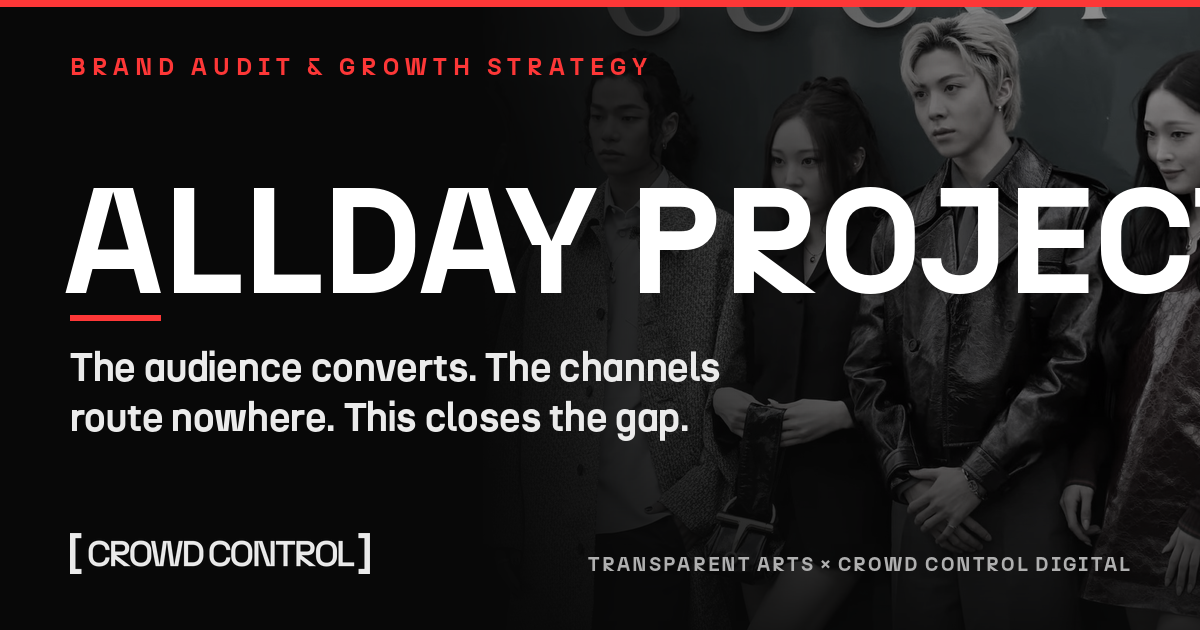
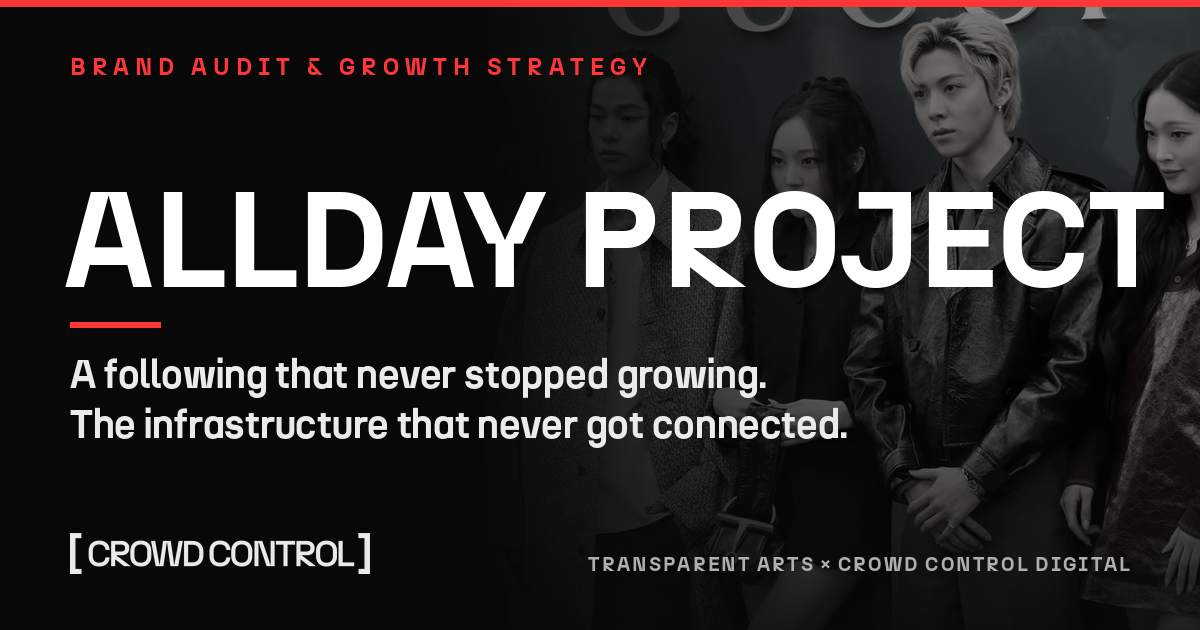
ALLDAY PROJECT: regenerate OG card with an auto-fitting title
The OG generator hard-coded a 150px title with no width check, so any
artist name wider than the canvas was clipped mid-word. 'ALLDAY PROJECT'
lost its final T. Adds an auto-fit loop (150px down to 48px) and drops a
patched copy of the generator into scripts/ so the repo has the fix.
Also updates the card subtitle to match the corrected page thesis.

Changed region(s): [[0.0617, 0.2714, 1.0, 0.7238]]

diff --git a/scripts/generate_og_image.py b/scripts/generate_og_image.py
@@ -1,0 +1,146 @@
+#!/usr/bin/env python3
+"""
+Generate a high-impact 1200x630 OpenGraph share image for a Kakao Proposal.
+
+Layout: bold N27 artist title on the left over a left-to-right black scrim, the
+hero/group photo desaturated + darkened on the right, the CCD wordmark bottom-
+left, a partnership line bottom-right, an accent top stripe + rule.
+
+Run from inside the ccd-proposals repo (so public/brand/ and public/images/ are
+relative), or pass absolute paths.
+
+Example:
+  python3 generate_og_image.py \
+    --slug 82major --title "82MAJOR" --eyebrow "U.S. GROWTH STRATEGY" \
+    --sub1 "Long-term U.S. expansion" --sub2 "framework through 1H 2027" \
+    --partner "KAKAO ENTERTAINMENT  ×  CROWD CONTROL DIGITAL" \
+    --hero public/images/82major/82major-group.jpg
+
+Writes public/images/<slug>/og-image.png. Requires Pillow
+(pip install pillow --break-system-packages).
+"""
+import argparse
+import os
+from PIL import Image, ImageDraw, ImageFont, ImageEnhance
+
+
+def hex_to_rgb(h):
+    h = h.lstrip("#")
+    return tuple(int(h[i:i + 2], 16) for i in (0, 2, 4))
+
+
+def draw_tracked(draw, xy, text, font, fill, tracking):
+    x, y = xy
+    for ch in text:
+        draw.text((x, y), ch, font=font, fill=fill)
+        x += draw.textlength(ch, font=font) + tracking
+
+
+def tracked_width(draw, text, font, tracking):
+    return sum(draw.textlength(ch, font=font) + tracking for ch in text) - tracking
+
+
+def main():
+    ap = argparse.ArgumentParser()
+    ap.add_argument("--slug", required=True)
+    ap.add_argument("--title", required=True, help="Artist, rendered massive")
+    ap.add_argument("--eyebrow", default="U.S. GROWTH STRATEGY")
+    ap.add_argument("--sub1", default="Long-term U.S. expansion")
+    ap.add_argument("--sub2", default="framework through 1H 2027")
+    ap.add_argument("--partner", default="CROWD CONTROL DIGITAL")
+    ap.add_argument("--hero", required=True, help="Path to hero/group photo")
+    ap.add_argument("--accent", default="#FD3737")
+    ap.add_argument("--brand-dir", default="public/brand")
+    ap.add_argument("--out", default=None, help="Defaults to public/images/<slug>/og-image.png")
+    args = ap.parse_args()
+
+    W, H = 1200, 630
+    ACCENT = hex_to_rgb(args.accent)
+    BG = (8, 8, 8)
+    MARGIN = 70
+
+    font_path = os.path.join(args.brand_dir, "N27-Bold.otf")
+    logo_path = os.path.join(args.brand_dir, "CC-LOGO-2024-WHITE.png")
+
+    canvas = Image.new("RGB", (W, H), BG)
+
+    # Hero photo: right-anchored, cover-cropped, desaturated + darkened
+    grp = Image.open(args.hero).convert("RGB")
+    target_w, target_h = int(W * 0.62), H
+    scale = max(target_w / grp.width, target_h / grp.height)
+    grp = grp.resize((int(grp.width * scale), int(grp.height * scale)), Image.LANCZOS)
+    left = (grp.width - target_w) // 2
+    top = (grp.height - target_h) // 2
+    grp = grp.crop((left, top, left + target_w, top + target_h))
+    grp = ImageEnhance.Color(grp).enhance(0.12)
+    grp = ImageEnhance.Brightness(grp).enhance(0.55)
+    canvas.paste(grp, (W - target_w, 0))
+
+    # Left-to-right scrim so the title area stays solid black
+    grad = Image.new("L", (W, 1), 0)
+    for x in range(W):
+        t = max(0.0, min(1.0, (x - W * 0.40) / (W * 0.45)))
+        grad.putpixel((x, 0), int(255 * (1 - t)))
+    grad = grad.resize((W, H))
+    canvas = Image.composite(Image.new("RGB", (W, H), BG), canvas, grad)
+
+    # Bottom vignette for wordmark/meta legibility
+    vgrad = Image.new("L", (1, H), 0)
+    for y in range(H):
+        t = max(0.0, min(1.0, (y - H * 0.62) / (H * 0.38)))
+        vgrad.putpixel((0, y), int(200 * t))
+    vgrad = vgrad.resize((W, H))
+    canvas = Image.composite(Image.new("RGB", (W, H), BG), canvas, vgrad)
+
+    draw = ImageDraw.Draw(canvas)
+    draw.rectangle([0, 0, W, 6], fill=ACCENT)
+
+    def f(sz):
+        return ImageFont.truetype(font_path, sz)
+
+    # Eyebrow (tracked, accent)
+    draw_tracked(draw, (MARGIN, 52), args.eyebrow, f(24), ACCENT, 6)
+
+    # Massive title
+    ty = 150
+    # Auto-fit the title so long artist names do not overflow the canvas.
+    # The original hard-coded 150px, which clips any name wider than the frame.
+    title_size = 150
+    max_title_w = W - MARGIN - 24
+    while title_size > 48:
+        tf = f(title_size)
+        if draw.textlength(args.title, font=tf) <= max_title_w:
+            break
+        title_size -= 2
+    tf = f(title_size)
+    ty += int((150 - title_size) * 0.55)
+    draw.text((MARGIN - 6, ty), args.title, font=tf, fill=(255, 255, 255))
+
+    # Accent rule + subtitle
+    rule_y = ty + 165
+    draw.rectangle([MARGIN, rule_y, MARGIN + 90, rule_y + 5], fill=ACCENT)
+    draw.text((MARGIN, rule_y + 28), args.sub1, font=f(40), fill=(235, 235, 235))
+    draw.text((MARGIN, rule_y + 78), args.sub2, font=f(40), fill=(235, 235, 235))
+
+    # CCD wordmark bottom-left
+    logo = Image.open(logo_path).convert("RGBA")
+    logo_w = 300
+    logo_h = int(logo.height * (logo_w / logo.width))
+    logo = logo.resize((logo_w, logo_h), Image.LANCZOS)
+    alpha = logo.split()[3].point(lambda a: int(a * 0.92))
+    logo.putalpha(alpha)
+    canvas.paste(logo, (MARGIN, H - logo_h - 56), logo)
+
+    # Partnership line bottom-right
+    meta_font = f(20)
+    pw = tracked_width(draw, args.partner, meta_font, 2)
+    draw_tracked(draw, (W - MARGIN - pw, H - 78), args.partner, meta_font, (175, 175, 175), 2)
+
+    out = args.out or f"public/images/{args.slug}/og-image.png"
+    os.makedirs(os.path.dirname(out), exist_ok=True)
+    canvas.save(out, "PNG", optimize=True)
+    print(f"Saved {out} ({W}x{H})")
+
+
+if __name__ == "__main__":
+    main()
